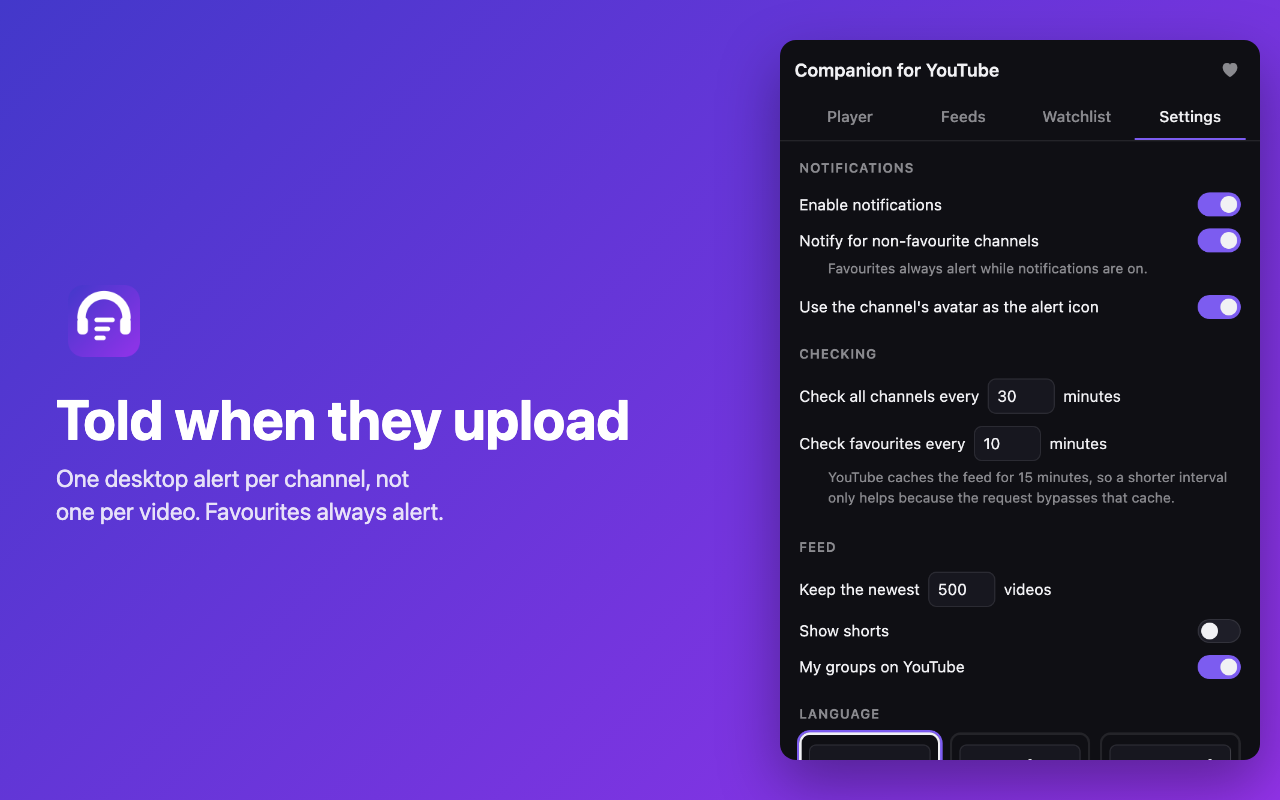
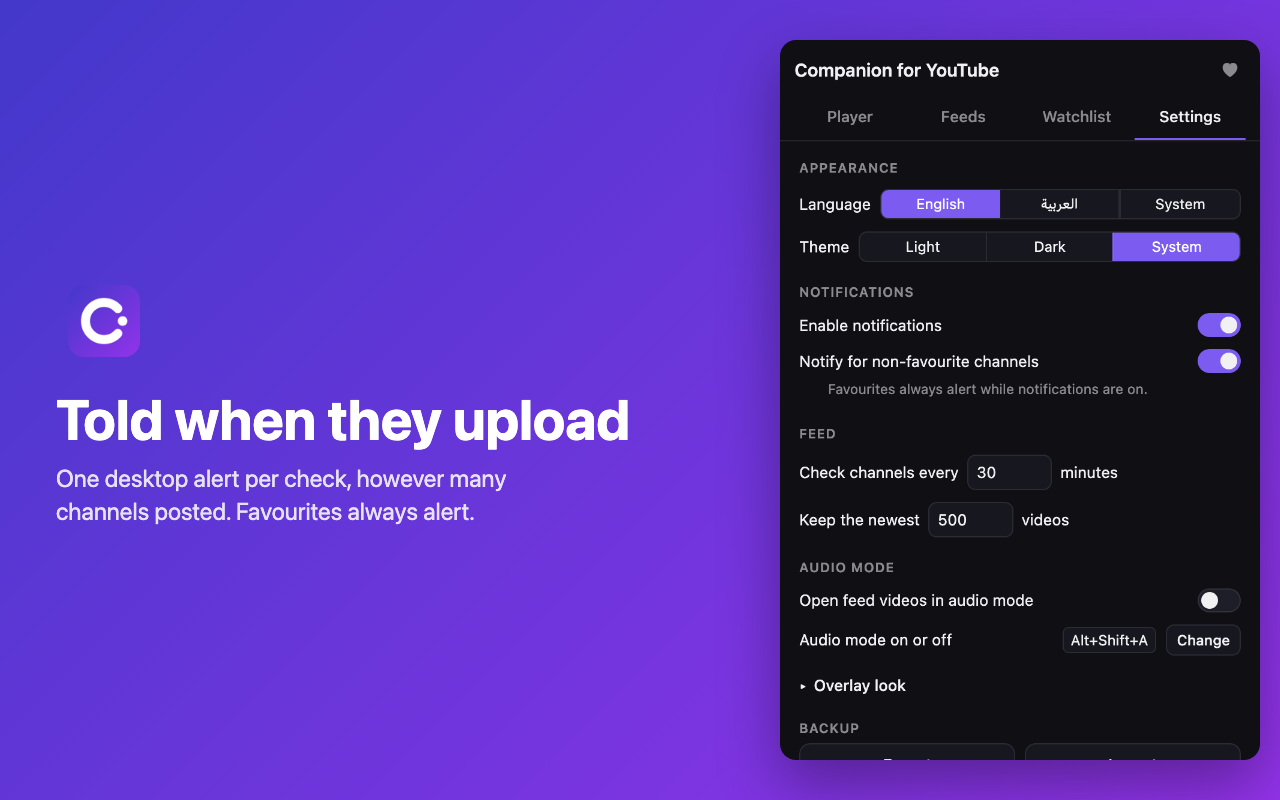
Refresh every screenshot for 2.2, and bring the store text up to date
The store frames carry the new icon, and two lines now say what 2.2 does:
one alert per check, and Up next in step with YouTube's queue. The
descriptions gain Send feedback and See more, the Arabic one loses "one
alert per channel", and Edge is recorded as live on 2.1.0.

diff --git a/scripts/shots.js b/scripts/shots.js
@@ -83,14 +83,14 @@ export const STORE_SHOTS = [
     name: 'screenshot-7-queue',
     img: 'queue.png',
     title: 'A list that plays itself',
-    sub: 'Queue videos to hear later. Play all works through them in one tab, even with the popup closed.',
+    sub: 'Queue videos to hear later. It stays in step with YouTube\'s own queue and plays through in one tab.',
     dir: 'ltr',
   },
   {
     name: 'screenshot-8-alerts',
     img: 'settings.png',
     title: 'Told when they upload',
-    sub: 'One desktop alert per channel, not one per video. Favourites always alert.',
+    sub: 'One desktop alert per check, however many channels posted. Favourites always alert.',
     dir: 'ltr',
   },
 ];

diff --git a/store/LISTING.md b/store/LISTING.md
@@ -9,7 +9,7 @@ words. The name and the short description come from `_locales/*/messages.json`
 
 | Store | State | Record |
 |---|---|---|
-| Edge Add-ons | 1.0.0 **live by 2026-09-16** (submitted 2026-09-13) · 2.0.0 **live by 2026-09-26** (submitted 2026-09-22) · 2.1.0 **in review** (submitted 2026-09-27) | Store ID `0RDCKC7S7L34` · listing `https://microsoftedge.microsoft.com/addons/detail/companion-for-youtube/neaandgimpffglakmlbmmkmmmlahibfh` · CRX ID `neaandgimpffglakmlbmmkmmmlahibfh` · Partner Center product `e18b9c0b-72f4-4359-b6a0-620c848f1b34` · publisher **Ammar Shahin** (Individual, Egypt) |
+| Edge Add-ons | 1.0.0 **live by 2026-09-16** (submitted 2026-09-13) · 2.0.0 **live by 2026-09-26** (submitted 2026-09-22) · 2.1.0 **live by 2026-10-10** (submitted 2026-09-27) | Store ID `0RDCKC7S7L34` · listing `https://microsoftedge.microsoft.com/addons/detail/companion-for-youtube/neaandgimpffglakmlbmmkmmmlahibfh` · CRX ID `neaandgimpffglakmlbmmkmmmlahibfh` · Partner Center product `e18b9c0b-72f4-4359-b6a0-620c848f1b34` · publisher **Ammar Shahin** (Individual, Egypt) |
 | Chrome Web Store | 1.0.0 **live 2026-09-14** (submitted 2026-09-13) · 2.0.0 **live 2026-09-20** · 2.1.0 **live by 2026-10-02** (submitted 2026-09-27) | Item ID `hpajekcplhidhjidohfmebpeianbhcgd` · listing `https://chromewebstore.google.com/detail/hpajekcplhidhjidohfmebpeianbhcgd` · developer account declared **non-trader** |
 | مرتكز (Mortakaz) | **Listed 2026-09-17** · still shows 1.0.0's text; updated only for a major version (owner, 2026-09-26) | Arabic showcase for Arab makers, not an extension store · project `https://www.mortakaz.com/projects/6aaaa1a71ecfb2f590982a3e` · section أدوات الإنتاجية · main link points at the Chrome listing |
 
@@ -127,7 +127,7 @@ the earlier file.
 
 ## Description — English
 
-Written for 2.1. The stores cap this at 16,000 characters; it is well under.
+Written for 2.2. The stores cap this at 16,000 characters; it is well under.
 
 ```text
 Keep up with the YouTube channels you care about without signing in to anything, and listen with a fraction of the data.
@@ -146,7 +146,7 @@ WATCHLIST
 • Import all your YouTube subscriptions from your signed-in YouTube tab, choosing the Google account if you have several. Signed out? A Google Takeout file works too. Both are read on your device
 • Star your favourites: they sit at the top and always alert
 • Mute a channel to keep it in your feed but out of your alerts
-• Open any channel to see its latest videos without leaving the popup, or jump to it on YouTube
+• Open any channel to see its latest videos without leaving the popup, load older ones with See more, or jump to it on YouTube
 • Channels whose check fails are marked, and one tap shows just those
 • Removed one by mistake? Undo puts it back with its star, its place in the list and its videos
 • Clear the whole list in one go, after a confirm that offers to export it first
@@ -183,6 +183,7 @@ PRIVATE BY DESIGN
 
 SUPPORT
 • Free, with no ads and no tracking. If it saves you time or data, the heart in the popup opens PayPal and InstaPay
+• Send feedback from the bottom of Settings: one box, no account and no email needed
 
 In English and Arabic, with a full right-to-left layout. Light, dark, or follow your system.
 
@@ -210,13 +211,13 @@ Companion for YouTube is not affiliated with, endorsed by or sponsored by YouTub
 • استورد كل اشتراكاتك في يوتيوب من تبويب يوتيوب الذي سجّلت الدخول إليه، واختر حساب Google إن كان لديك أكثر من حساب. غير مسجّل الدخول؟ يعمل ملف Google Takeout أيضًا. وكلاهما يُقرأ على جهازك
 • ميّز قنواتك المفضلة بنجمة: تظهر في الأعلى وتنبّهك دائمًا
 • اكتم قناة لتبقى في موجزك دون أن ترسل لك تنبيهات
-• افتح أي قناة لترى أحدث فيديوهاتها دون مغادرة النافذة، أو انتقل إليها على يوتيوب
+• افتح أي قناة لترى أحدث فيديوهاتها دون مغادرة النافذة، وحمّل الأقدم بزر «عرض المزيد»، أو انتقل إليها على يوتيوب
 • القنوات التي يفشل التحقق منها عليها علامة، وضغطة واحدة تعرضها وحدها
 • أزلت قناة بالخطأ؟ «تراجع» يعيدها بنجمتها وترتيبها في القائمة وفيديوهاتها
 • امسح القائمة بالكامل بضغطة واحدة بعد تأكيد يعرض عليك تصديرها أولًا
 
 التنبيهات
-• إشعار على سطح المكتب عندما ترفع قناة فيديو: تنبيه واحد لكل قناة، لا لكل فيديو
+• إشعار على سطح المكتب عندما ترفع قناة فيديو: تنبيه واحد لكل فحص، حتى لو نشرت عدة قنوات
 • زرّا «استمع» و«إضافة إلى التالي» على التنبيه نفسه
 • شارة شريط الأدوات تعدّ الفيديوهات الجديدة منذ آخر مرة نظرت فيها
 
@@ -247,6 +248,7 @@ Companion for YouTube is not affiliated with, endorsed by or sponsored by YouTub
 
 الدعم
 • الإضافة مجانية بلا إعلانات ولا تتبّع. إن وفّرت عليك وقتًا أو بيانات، فأيقونة القلب في النافذة تفتح PayPal وInstaPay
+• أرسل ملاحظاتك من أسفل الإعدادات: مربع واحد، بلا حساب وبلا بريد إلكتروني
 
 بالعربية والإنجليزية، مع واجهة كاملة من اليمين إلى اليسار. بسمة فاتحة أو داكنة، أو كما في نظامك.
 

diff --git a/CHANGELOG.md b/CHANGELOG.md
@@ -55,6 +55,11 @@ shipped yet waits under Unreleased. How a version ships:
 - The popup keeps the same width on every tab. On Windows a long tab
   used to grow a scrollbar and push the layout sideways.
 
+**For contributors**
+- A 3-minute tour on the website plays the real popup through every
+  feature (`site/tour/`, `node scripts/tour.js`), and `npm run tour:record`
+  records it to a 1080p MP4 with subtitles.
+
 ## 2.1.0 — 2026-09-26
 
 **New**
